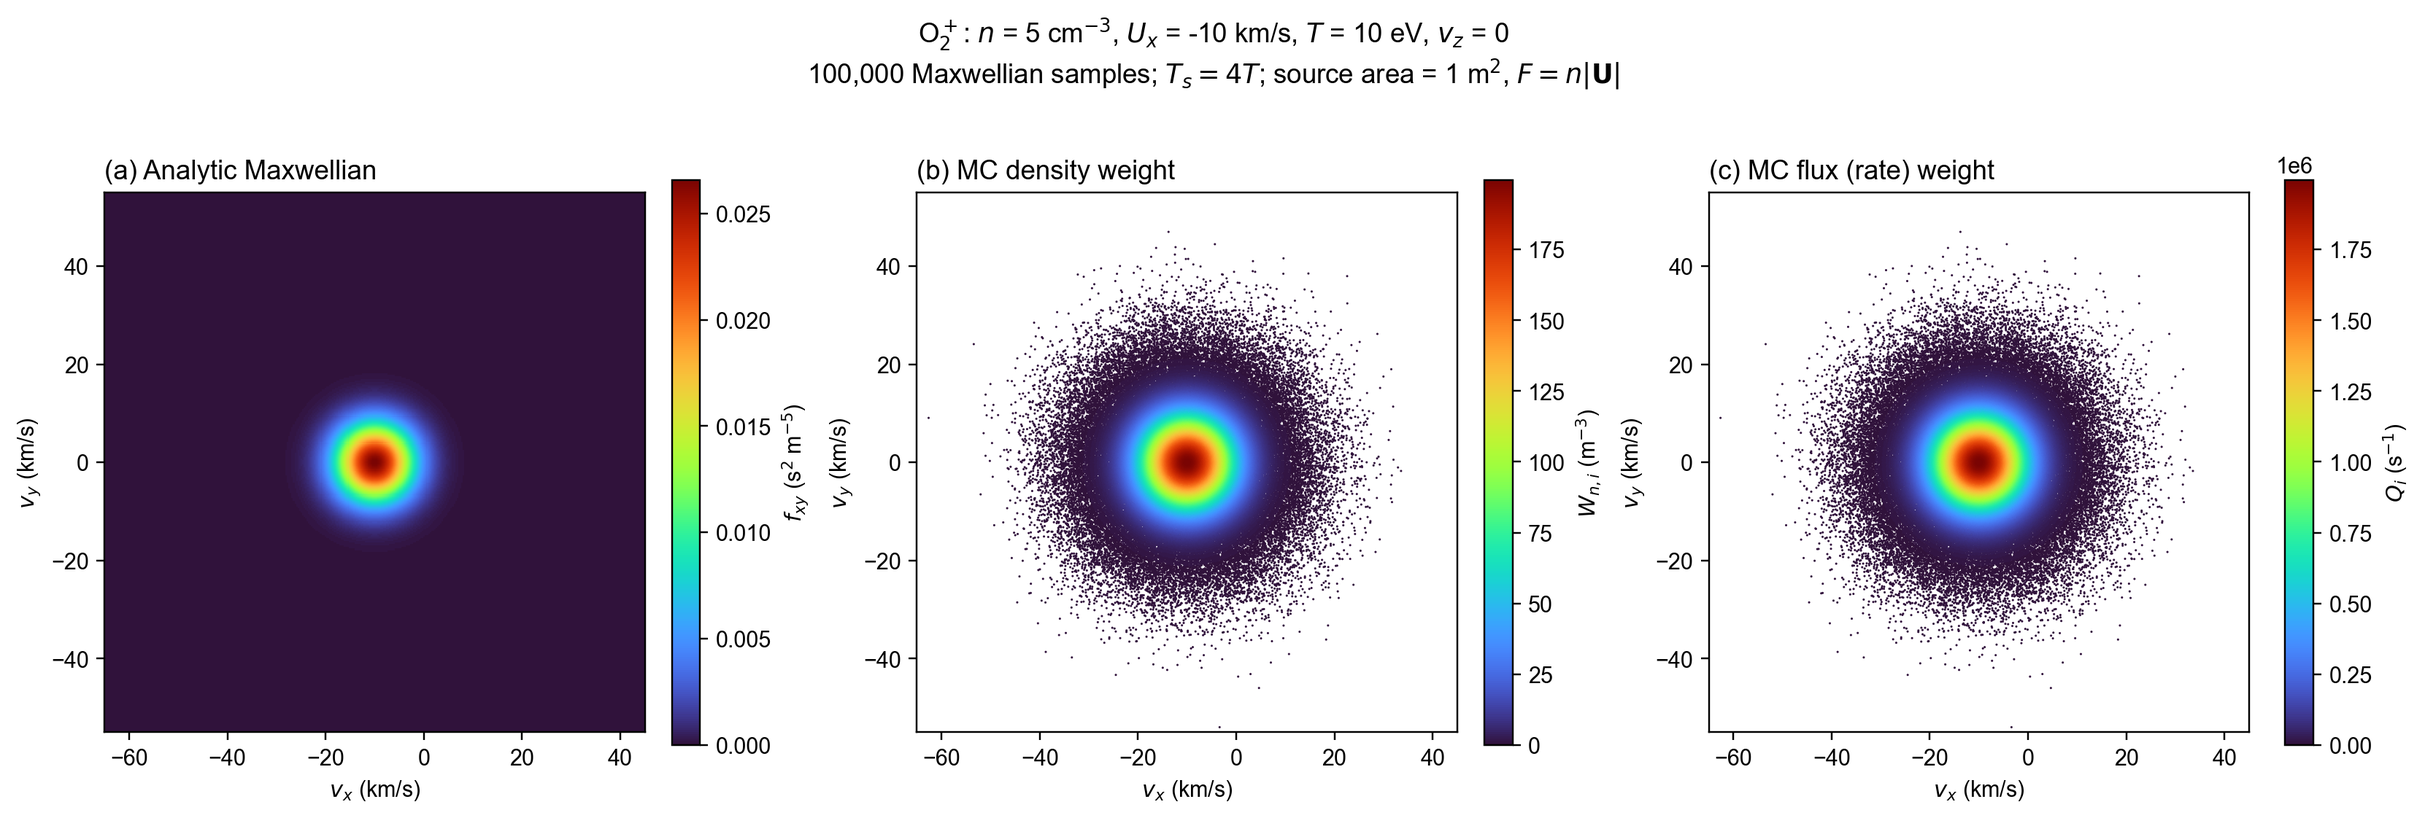
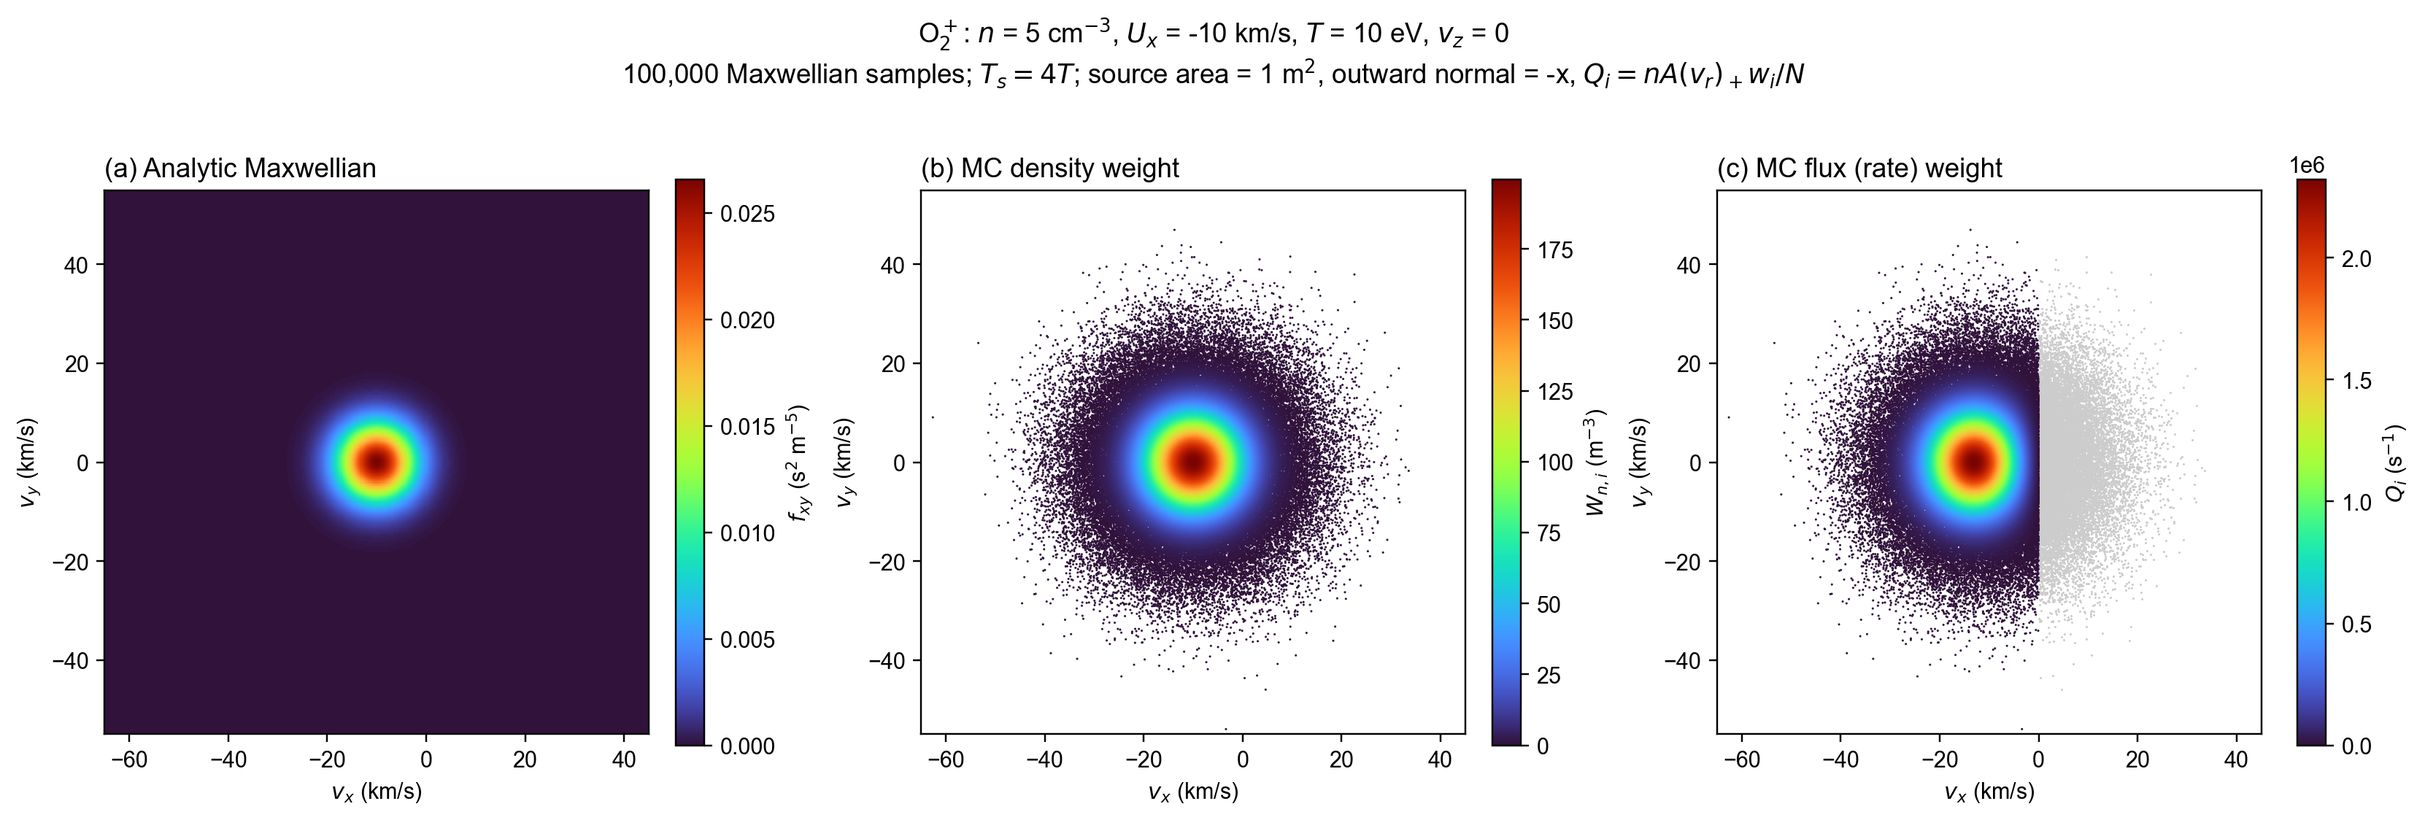
Fix Maxwellian surface injection defaults and document crossing weights

diff --git a/examples/forward_tracing/monte_carlo_forward_tracing/plot_monte_carlo_sampling.py b/examples/forward_tracing/monte_carlo_forward_tracing/plot_monte_carlo_sampling.py
@@ -28,16 +28,20 @@ def sample_demo(count=100_000, seed=20260907):
     # d=2: g2/gs2 = factor * exp[-d2/(2 sigma^2)*(1-1/factor)].
     importance = factor*np.exp(-d2/(2*sigma**2)*(1-1/factor))
     density_weight = n*importance/importance.sum()
-    # Prescribed n|U_bulk| source rate, independent of individual velocity sign.
-    rate_weight = area*np.linalg.norm(bulk)*density_weight
-    analytic_rate = n*area*np.linalg.norm(bulk)
+    # Outward normal is -x, aligned with the example bulk drift.
+    radial = -velocity[:,0]
+    rate_weight = n*area*np.maximum(radial,0)*importance/count
+    ur = -bulk[0]
+    outward_probability = .5*math.erfc(-ur/sigma/math.sqrt(2))
+    analytic_rate = n*area*(sigma/math.sqrt(2*math.pi)*math.exp(-.5*(ur/sigma)**2)+ur*outward_probability)
     neff = importance.sum()**2/np.sum(importance**2)
     weighted_mean = np.sum(density_weight[:,None]*velocity,axis=0)/n
     assert np.isclose(density_weight.sum(),n,rtol=1e-14)
-    assert np.all(rate_weight>0)
+    assert np.all(rate_weight[radial<=0]==0)
+    assert np.all(rate_weight[radial>0]>0)
     assert np.any(velocity[:,0]<0) and np.any(velocity[:,0]>0)
     assert np.all(abs(weighted_mean-bulk)<6*sigma/math.sqrt(neff))
-    assert np.isclose(rate_weight.sum(),analytic_rate,rtol=1e-14)
+    assert np.isclose(rate_weight.sum(),analytic_rate,rtol=.03)
     return dict(n=n,mass=mass,qe=qe,temperature_ev=temperature_ev,bulk=bulk,
         factor=factor,area=area,sigma=sigma,velocity=velocity,importance=importance,
         density_weight=density_weight,rate_weight=rate_weight,analytic_rate=analytic_rate,
@@ -78,7 +82,7 @@ def main():
         ax.set(xlim=np.array(xlim)/1000,ylim=np.array(ylim)/1000,
                xlabel=r'$v_x$ (km/s)',ylabel=r'$v_y$ (km/s)',aspect='equal')
     fig.suptitle('O$_2^+$: $n$ = 5 cm$^{-3}$, $U_x$ = -10 km/s, $T$ = 10 eV, $v_z$ = 0\n'
-                 f'{args.count:,} Maxwellian samples; '+r'$T_s=4T$; source area = 1 m$^2$, $F=n|\mathbf{U}|$')
+                 f'{args.count:,} Maxwellian samples; '+r'$T_s=4T$; source area = 1 m$^2$, outward normal = -x, $Q_i=nA(v_r)_+w_i/N$')
     args.output.parent.mkdir(parents=True,exist_ok=True)
     fig.savefig(args.output,dpi=220,bbox_inches='tight')
     plt.close(fig)

diff --git a/examples/forward_tracing/monte_carlo_forward_tracing/README.md b/examples/forward_tracing/monte_carlo_forward_tracing/README.md
@@ -10,9 +10,9 @@ Monte Carlo represents a continuous velocity distribution with a finite set of w
 
 ![Maxwellian and Monte Carlo particle weights](monte_carlo_sampling.png)
 
-The [plotting script](plot_monte_carlo_sampling.py) uses O₂⁺ at density 5 cm⁻³ (5×10⁶ m⁻³), bulk velocity (−10,0) km/s and physical temperature 10 eV. It draws 100,000 two-dimensional velocities with vz=0. The **sampling Maxwellian** has temperature 40 eV. A source area of **1 m²** and bulk speed **10 km/s** define the prescribed particle-rate weights. Both signs of each sampled velocity component are retained.
+The [plotting script](plot_monte_carlo_sampling.py) uses O₂⁺ at density 5 cm⁻³ (5×10⁶ m⁻³), bulk velocity (−10,0) km/s and physical temperature 10 eV. It draws 100,000 two-dimensional velocities with vz=0. The **sampling Maxwellian** has temperature 40 eV. A source area of **1 m²** and outward normal **(-1,0)** define the reservoir crossing-rate weights. Both signs of each sampled velocity component are retained.
 
-All three panels use turbo. The left panel shows the analytical two-dimensional Maxwellian (s² m⁻⁵). The middle and right panels color individual samples by `density_weight` (m⁻³) and `flux_weight` (s⁻¹), respectively. The rate weight is the density weight multiplied by area and bulk speed. There is no velocity-sign cutoff or shaded excluded half-plane.
+All three panels use turbo. The left panel shows the analytical two-dimensional Maxwellian (s² m⁻⁵). The middle and right panels color individual samples by `density_weight` (m⁻³) and `flux_weight` (s⁻¹), respectively. The density weights are self-normalized diagnostics. The crossing-rate weights use Q_i = n A max(-vx_i,0) w_i / N. Samples with vx >= 0 have zero crossing rate and appear gray. Both signs are retained in the sampled ensemble. Reconstruct the VDF with weighted velocity-bin sums, not scatter-point colors.
 
 ### 1.2 Maxwellian sampling and importance weights
 
@@ -45,39 +45,39 @@ The prefactor is c in the two-dimensional illustration and c^(3/2) in the three-
 
 The density-ratio principle also applies to a κ distribution: replace the physical and sampling probability densities by the intended normalized distributions, and evaluate their ratio at each sample. The sampling distribution must cover the support of the physical distribution. Efficient sampling of κ tails generally requires a suitable heavy-tailed sampling distribution. The current source function implements Maxwellian sampling; κ sampling requires an additional sampler and density evaluation. The Maxwellian exponential expression above does not apply unchanged to κ distributions.
 
-### 1.3 Density and particle-rate weights
+### 1.3 Density weights and outward crossing rates
 
-Let N be the dimensionless number of draws, n the number density in m⁻³, and w_i dimensionless importance weights. The density weight W_i^(n), in m⁻³, is:
+The diagnostic self-normalized density weights are
 
-$$
-W_i^{(n)}=n\frac{w_i}{\sum_{j=1}^{N}w_j},\qquad \sum_iW_i^{(n)}=n.
-$$
+$$W_i^{(n)}=n w_i/\sum_jw_j.$$
 
-`particle_density_weight` evaluates this expression.
+They sum exactly to n, but finite-sample moment estimates are biased. These diagnostic weights are not used to calculate reservoir injection rates.
 
-Let A be source area in m² and U the local MHD bulk velocity in m/s. The prescribed scalar source flux F is in m⁻² s⁻¹ and particle-rate weight Q_i is in s⁻¹:
+For a Maxwellian reservoir at a surface with outward unit normal er, define vr = v dot er. The physical outward crossing measure is n max(vr,0) g(v) d^3v dA. Consequently, for N untruncated draws from gs, the default rate estimator is
 
-$$
-F=n|\mathbf U|,\qquad
-Q_i=FA\frac{w_i}{\sum_jw_j}=A|\mathbf U|W_i^{(n)},\qquad
-\sum_iQ_i=n|\mathbf U|A.
-$$
+$$\boxed{Q_i=\frac{nA}{N}\max(\mathbf v_i\cdot\hat{\mathbf r},0)\frac{g(\mathbf v_i)}{g_s(\mathbf v_i)}}.$$
 
-`sample_maxwellian_source(...; area_m2=A, flux_model=:bulk_speed)` evaluates this model by default. No normal is required. Both inward and outward velocities receive weights from the full drifting Maxwellian. Neither the bulk radial velocity nor the sampled radial velocity is used as a sign filter or rate factor. The factor is the **bulk speed**, not the speed of each sampled particle. A zero bulk speed gives zero injected rate, even at finite temperature.
+Q_i is in s^-1. N includes every draw, including inward samples with zero rate. There is no normalization by sum(w), by the number of outward samples, or by flight duration. The sampled total rate fluctuates around the physical rate; it is not forced to equal an assigned total. `sample_maxwellian_source(...; normal=er, area_m2=A)` defaults to `flux_model=:reservoir`.
 
-This is a prescribed source injection model. It is not the signed flux through a sphere or the positive-half-space thermal crossing flux. The per-cell normalization fixes total injection exactly; self-normalized importance estimates of the velocity distribution have finite-sample bias, so convergence with particles per cell and effective sample size should be checked.
+For radial bulk drift Ur = U dot er and physical one-component thermal standard deviation sigma,
 
-For reproducibility of earlier runs, `flux_model=:reservoir` in the sampler retains the previous `n A max(v dot normal,0) w/N` estimator and requires a normal. The shell example selects it explicitly with `flux_model="reservoir_maxwellian_rate"`. The older conditional-outward model is also available only by explicit selection. Neither is the default.
+$$F_+=n[\sigma\varphi(U_r/\sigma)+U_r\Phi(U_r/\sigma)],$$
+
+where varphi and Phi are the standard normal density and cumulative distribution. At zero drift, F+ = n sigma / sqrt(2 pi), which is nonzero at finite temperature. Tangential bulk drift does not change this local crossing rate. Signed net flux n Ur is a different quantity.
+
+The explicit compatibility option `flux_model=:bulk_speed` assigns Q_i = n A norm(U) w_i / sum(w). It defines a prescribed injection source, rather than a Maxwellian boundary crossing distribution. It retains both velocity signs and gives zero rate at zero bulk speed. Applying an absorbing boundary to its inward launches does not recover the missing normal-speed factor. The shell option for this earlier model is `flux_model="n_bulk_speed_maxwellian"`. The older conditional-outward prescribed-rate model also remains an explicit option.
 
 ### 1.4 The 500 km ionospheric source
 
-MHD density, bulk velocity and temperature are read at each source cell at 500 km altitude. The source surface is also the absorbing inner boundary, with a radial outward normal. Let r_s be the source radius in m, θ colatitude in rad and ϕ longitude in rad. Cell area A_cell is in m²:
+MHD density, Cartesian bulk velocity and temperature are evaluated at the area-coordinate midpoint of each native angular cell at 500 km altitude. The source is also the absorbing inner boundary. With radius rs in m, colatitude theta and longitude phi in rad,
 
-$$
-A_{\rm cell}=r_s^2(\cos\theta_0-\cos\theta_1)(\phi_1-\phi_0).
-$$
+$$A_{cell}=r_s^2(\cos\theta_0-\cos\theta_1)(\phi_1-\phi_0).$$
 
-Each angular cell supplies 100 three-dimensional velocity samples. Weights use the local density, cell area and bulk-speed magnitude. The sampling Maxwellian temperature is four times the local physical temperature. No volume production is included outside the ionosphere. Inward launch velocities are retained with their positive source weights, but the unchanged absorbing boundary terminates them immediately at time zero with status `inner`. This is a transport boundary condition, not a sampling rejection. Escaping or detector-reaching rates therefore need not equal the prescribed injection rate.
+The default shell model is `reservoir_maxwellian_rate`. Each cell supplies 100 untruncated three-dimensional velocity draws at Ts=4T. Outward draws carry normal-speed rate weights; inward draws have zero rate and are saved with status `zero_rate` without propagation. No volume production is included outside the source.
+
+All draws within a cell launch from the same midpoint. This is spatial midpoint quadrature, not uniform random area sampling. Spatial refinement must be checked, especially for localized detector contributions. `cell_stride>1` skips cells without compensating their area and therefore describes only the sampled patches, not a full-shell rate estimate.
+
+At c=Ts/T=4, the asymptotic importance-weight ESS fraction is (2c-1)^(3/2)/c^3 = 0.289. Thus 100 draws give roughly 29 effective density samples per cell. This ESS does not measure uncertainty of crossing rates or detector occupancy. Compare independent seeds, particles per cell, sampling temperature and spatial resolution before interpreting rare trajectories.
 
 ### 1.5 Bulk-speed flux maps
 
@@ -113,13 +113,13 @@ Each trajectory retains its Q_i during lossless propagation.
 
 ![20,000 randomly selected O2+ trajectories in XY, XZ and YZ](trajectories_5000.png)
 
-The figure shows 20,000 randomly selected O₂⁺ forward trajectories using the updated `n*norm(U_bulk)` source. Panels show XY, XZ and YZ projections, from left to right. Dashed and dotted curves mark the bow shock (BS) and magnetic pileup boundary (MPB); in the YZ panel these boundaries are cross-sections at X=0. Positions are normalized by the Mars radius, Rm=3390 km. The image retains the filename `trajectories_5000.png` for link compatibility; the displayed sample contains 20,000 trajectories.
+This historical figure has not been recomputed with the reservoir default. It shows 20,000 randomly selected O₂⁺ forward trajectories using the updated `n*norm(U_bulk)` source. Panels show XY, XZ and YZ projections, from left to right. Dashed and dotted curves mark the bow shock (BS) and magnetic pileup boundary (MPB); in the YZ panel these boundaries are cross-sections at X=0. Positions are normalized by the Mars radius, Rm=3390 km. The image retains the filename `trajectories_5000.png` for link compatibility; the displayed sample contains 20,000 trajectories.
 
 ### 2.3 Satellite orbit and particle distributions
 
 ![O2+ trajectories, a circular orbit at 2.5 Rm and corresponding energy and reduced velocity distributions](satellite_orbit_distributions.png)
 
-The left panel combines 20,000 O₂⁺ trajectories with a prescribed circular satellite orbit in the Y=0 plane at a Mars-centered radius of **2.5 Rm**. The right panels show the corresponding direction-averaged DEF and one-dimensional reduced distributions in vx, vy and vz versus orbit angle. See [orbit geometry, distribution definitions and interpretation](satellite_orbit_distributions.md).
+This historical figure has not been recomputed with the reservoir default. The left panel combines 20,000 O₂⁺ trajectories with a prescribed circular satellite orbit in the Y=0 plane at a Mars-centered radius of **2.5 Rm**. The right panels show the corresponding direction-averaged DEF and one-dimensional reduced distributions in vx, vy and vz versus orbit angle. See [orbit geometry, distribution definitions and interpretation](satellite_orbit_distributions.md).
 
 ## 3. Detector PSD and integrated VDF
 
@@ -232,7 +232,7 @@ $$
 
 This monoenergetic beam identity checks the detector estimator. For the prescribed broad-distribution source, individual rates scale with bulk speed and importance weight, so the source is not a thermal reservoir crossing model.
 
-> The detector PSD illustration is a historical result from before the bulk-speed source update and has not been recomputed with the new weights. The trajectory illustration in Section 2.2 has been replaced with 20,000 randomly selected O₂⁺ trajectories from the updated source model.
+> The trajectory, satellite and detector PSD figures are historical results and have not been recomputed with the reservoir default. Only the sampling illustration reflects the corrected source weights.
 
 ### 3.6 Omnidirectional differential energy flux
 
@@ -246,7 +246,7 @@ Run from the repository root using the Julia project environment. Sampling and t
 include("examples/forward_tracing/monte_carlo_forward_tracing/monte_carlo_shell.jl")
 ShellMonteCarlo.run_monte_carlo("outputs/my_run",
     ShellMonteCarlo.Config(per_cell=100, dt=0.1, tmax=500., batch_size=1024,
-                          flux_model="n_bulk_speed_maxwellian", compress_trajectories=false))
+                          flux_model="reservoir_maxwellian_rate", compress_trajectories=false))
 ```
 
 [write_trajectory_batch](../../../src/tracing/trajectory_io.jl) saves batches of paths and weights. Position, velocity and time use m, m/s and s. `rate_weights_s` is in s⁻¹ and `source_density_weights_m3` in m⁻³:
@@ -286,7 +286,9 @@ Python requires NumPy, Matplotlib and h5py. Trajectory backgrounds use [src/visu
 | [analyze_saved_probes.jl](analyze_saved_probes.jl) | Detector PSD from saved paths |
 | [plot_library_psd.py](plot_library_psd.py) | Integrated two-dimensional VDFs |
 
-## Validation of the bulk-speed update
+## Historical validation of the bulk-speed update
+
+The following results refer to the earlier bulk-speed implementation, not the corrected reservoir default. See the reservoir validation below.
 
 Validated with Julia 1.12.6 and TestParticle 0.23.3. The package suite passed 420 assertions and the shell suite passed 240 assertions. Checks include exact patch-rate normalization, both radial velocity signs with positive weights, independence from normal direction, zero rate at zero bulk speed, the explicit legacy estimator, and immediate absorption of inward launches.
 
@@ -295,5 +297,11 @@ A local-field smoke run used 6 source cells, 10 particles per cell, dt=0.1 s and
 ```powershell
 julia --startup-file=no --compiled-modules=existing --project=. test/runtests.jl
 julia --startup-file=no --compiled-modules=existing --project=. examples/forward_tracing/monte_carlo_forward_tracing/test_monte_carlo.jl
-julia --startup-file=no --compiled-modules=existing --project=. examples/forward_tracing/monte_carlo_forward_tracing/monte_carlo_shell.jl outputs/new_bulk_speed_smoke 2000 0.2 0.1 10
+julia --startup-file=no --compiled-modules=existing --project=. examples/forward_tracing/monte_carlo_forward_tracing/monte_carlo_shell.jl outputs/new_bulk_speed_smoke 2000 0.2 0.1 10 n_bulk_speed_maxwellian
 ```
+
+## Reservoir validation
+
+The corrected package suite passed 520 assertions and the shell suite passed 241 assertions. The regenerated two-dimensional sampling illustration gives 5.06360096559e10 s^-1 versus the analytic 5.03640565439e10 s^-1 (0.54% difference), with the fixed seed and 100,000 draws.
+
+The source tests check zero-drift thermal flux, positive and negative radial drift, tangential-drift independence, and zero-field slab residence recovery of outward Maxwellian density and moments. The shell tests check the default selection, zero-rate inward draws, shell area and statistical rate convergence. No full ensemble or detector figures have been recomputed for this change.

diff --git a/examples/forward_tracing/monte_carlo_weights.md b/examples/forward_tracing/monte_carlo_weights.md
@@ -3,7 +3,7 @@
 Ported from [MarsASPEN.jl](https://github.com/ChiZhang123456/MarsASPEN.jl/blob/main/src/monte_carlo_weight.jl), blob `41d84d67602c5fa284f172a540cccc46531ca8e0`.
 The original file supplies weights, not random draws or a transport solver.
 MarsTP adds `sample_maxwellian_source`; default particle mass is O2+, not H.
-The tracked shell example defaults to the prescribed bulk-speed injection model below.
+The tracked shell example defaults to Maxwellian outward crossing rates.
 
 For physical temperature T, sampling Maxwellian temperature Ts=c*T and bulk velocity U,
 each Cartesian velocity component is sampled as U_k+sqrt(e*Ts/m)*randn().
@@ -29,20 +29,20 @@ mode, so `density_weights_m3` is then `nothing`; it does not denote a physical
 zero-density ensemble. `macro_weights` is Wn, or unit_particle_weight*w in
 unitless mode. A density weight is not a number of particles or a rate.
 
-For an explicitly specified patch area A, the default `flux_model=:bulk_speed` uses
+For an explicitly specified patch area A, the explicit compatibility option `flux_model=:bulk_speed` uses
 
     F = n*norm(U_bulk)                                      [m^-2 s^-1]
     rate_weights_s[i] = F*A*w_i/sum(w)                       [s^-1]
 
 No velocity-sign selection is applied. Both signs of sampled velocity and bulk radial velocity are allowed. The speed factor is the local bulk speed, not the speed of each sample. Total patch injection is exactly `n*norm(U_bulk)*A`. Zero density or zero bulk speed yields zero rates. A normal is optional and does not affect these rates.
 
-This is a prescribed source injection model with full Maxwellian velocity support. It is not a net radial or thermal half-space crossing flux. The same scalar flux definition is used by the backtrace thin-sheet source, although the boundary handling and numerical estimators must still be considered separately. In the shell example the 500 km source remains the absorbing boundary: inward launches retain their rate and terminate immediately with status `inner`.
+This is a prescribed source injection model with full Maxwellian velocity support. It is not a net radial or thermal half-space crossing flux. The same scalar flux definition is used by the backtrace thin-sheet source, although the boundary handling and numerical estimators must still be considered separately. When this explicit bulk-speed option is selected in the shell example, the 500 km source remains the absorbing boundary: inward launches retain their rate and terminate immediately with status `inner`. The default reservoir model instead assigns zero rates to inward samples and saves them as `zero_rate`.
 
-The explicit legacy option `flux_model=:reservoir` requires an outward normal er and retains
+The default option `flux_model=:reservoir` requires an outward normal er and retains
 
     rate_weights_s[i] = n*A*max(dot(v_i,er),0)*w_i/N          [s^-1]
 
-In that legacy mode N includes all draws, inward samples have zero rate, and no rate self-normalization is applied. At zero bulk drift its analytic total is `n*A*sqrt(e*T/m)/sqrt(2*pi)`. This legacy option is not the default.
+In the reservoir model N includes all draws, inward samples have zero rate, and no rate self-normalization is applied. At zero bulk drift its analytic total is `n*A*sqrt(e*T/m)/sqrt(2*pi)`. No self-normalization is applied to crossing rates.
 
 See `maxwellian_source.jl` for the local MHD moment adapter and [the shell example](monte_carlo_forward_tracing/README.md). Each patch needs its own area, local moments and reproducible random stream.
 
@@ -58,7 +58,7 @@ it diagnoses velocity importance sampling, not uncertainty of escape flux.
 
 Validation: `julia --compiled-modules=existing --project=. test/runtests.jl`.
 Tests cover SI thermal speed, fixed-seed reproducibility, normalization,
-invalid inputs, weighted second moments, bulk-speed rate normalization, independence from normal direction, both sampled velocity signs, zero-bulk rates, and the explicit legacy reservoir analytic flux. No large trajectory simulation
+invalid inputs, weighted second moments, bulk-speed rate normalization, independence from normal direction, both sampled velocity signs, zero-bulk rates, and the default reservoir analytic flux. No large trajectory simulation
 is part of these tests. No new external dependency is needed; Random is a
 Julia standard library.
 
